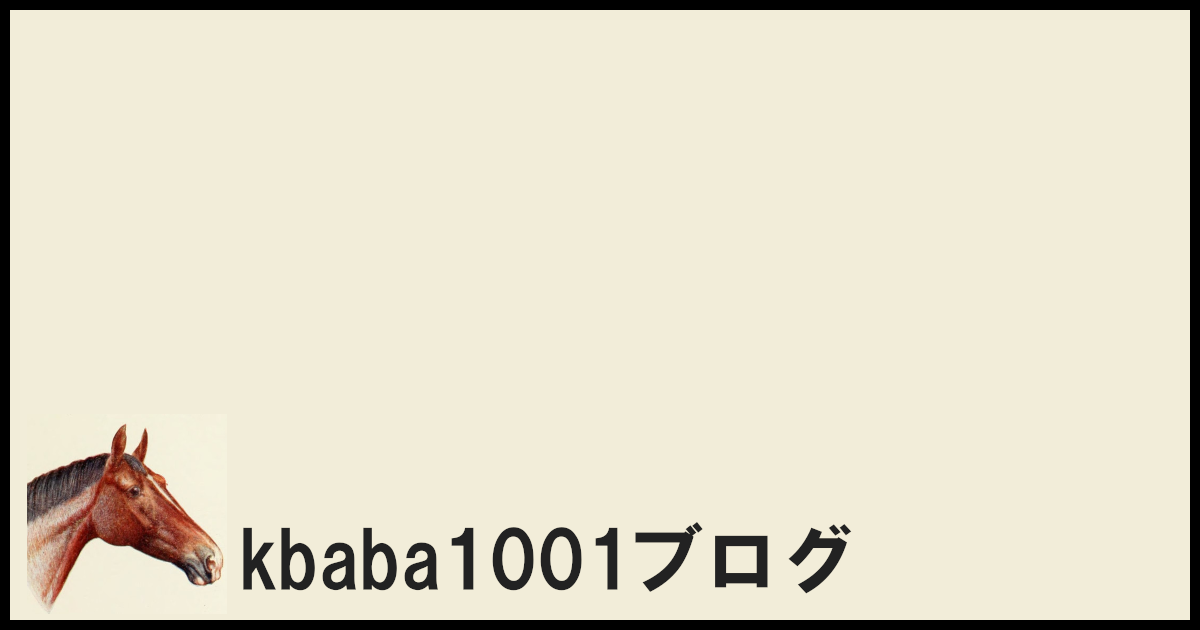
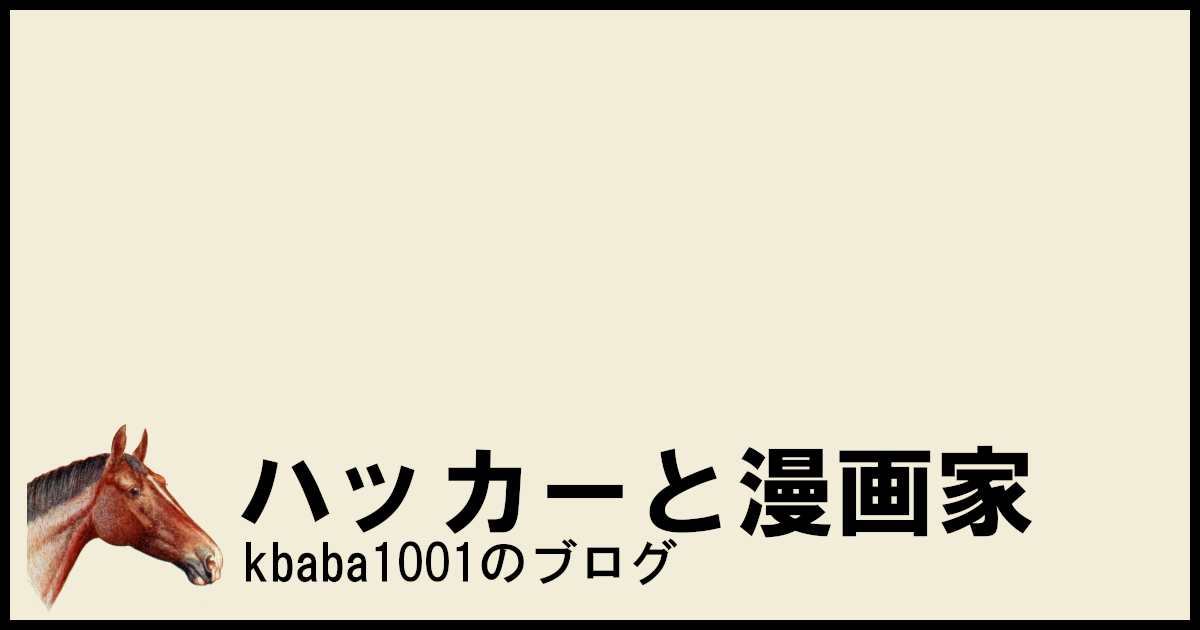
feat: change blog name

Changed region(s): [[0.185, 0.6937, 0.8633, 0.9349]]

diff --git a/_config.js b/_config.js
@@ -36,7 +36,7 @@ site.use(
 	feed({
 		query: "type=posts",
 		info: {
-			title: "kbaba1001 ブログ",
+			title: "ハッカーと漫画家",
 			description: "Clojure 好きなプログラマ kbaba1001 のブログ",
 			published: new Date("2023", "11", "18"),
 			lang: "ja_JP",
